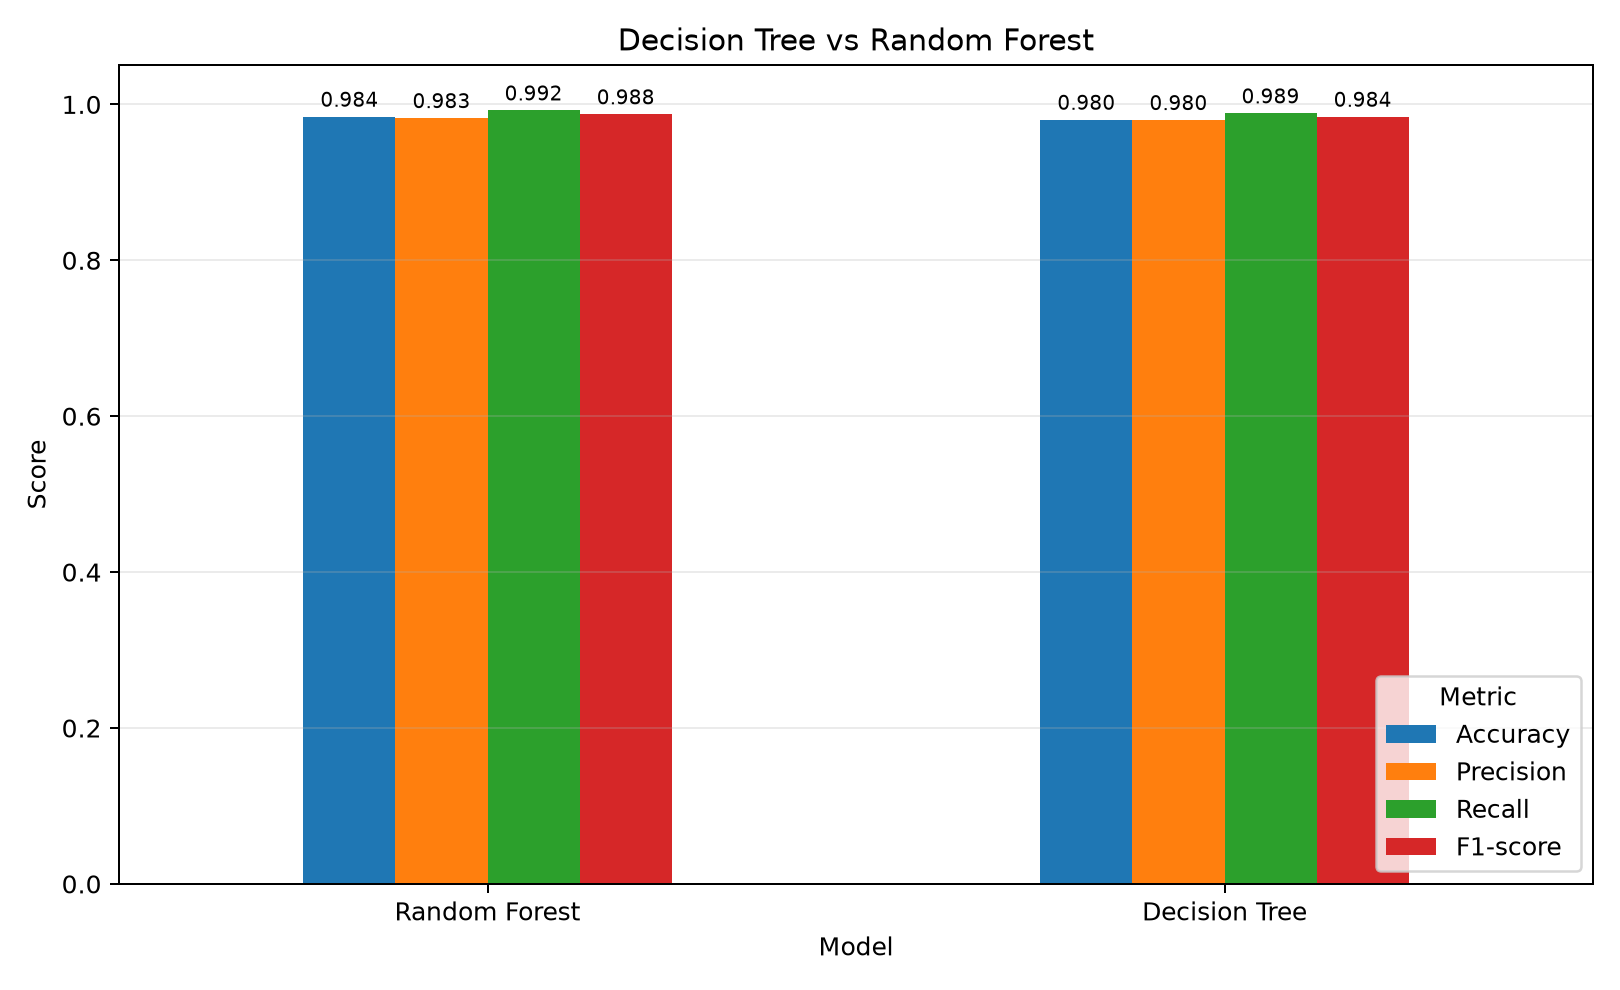
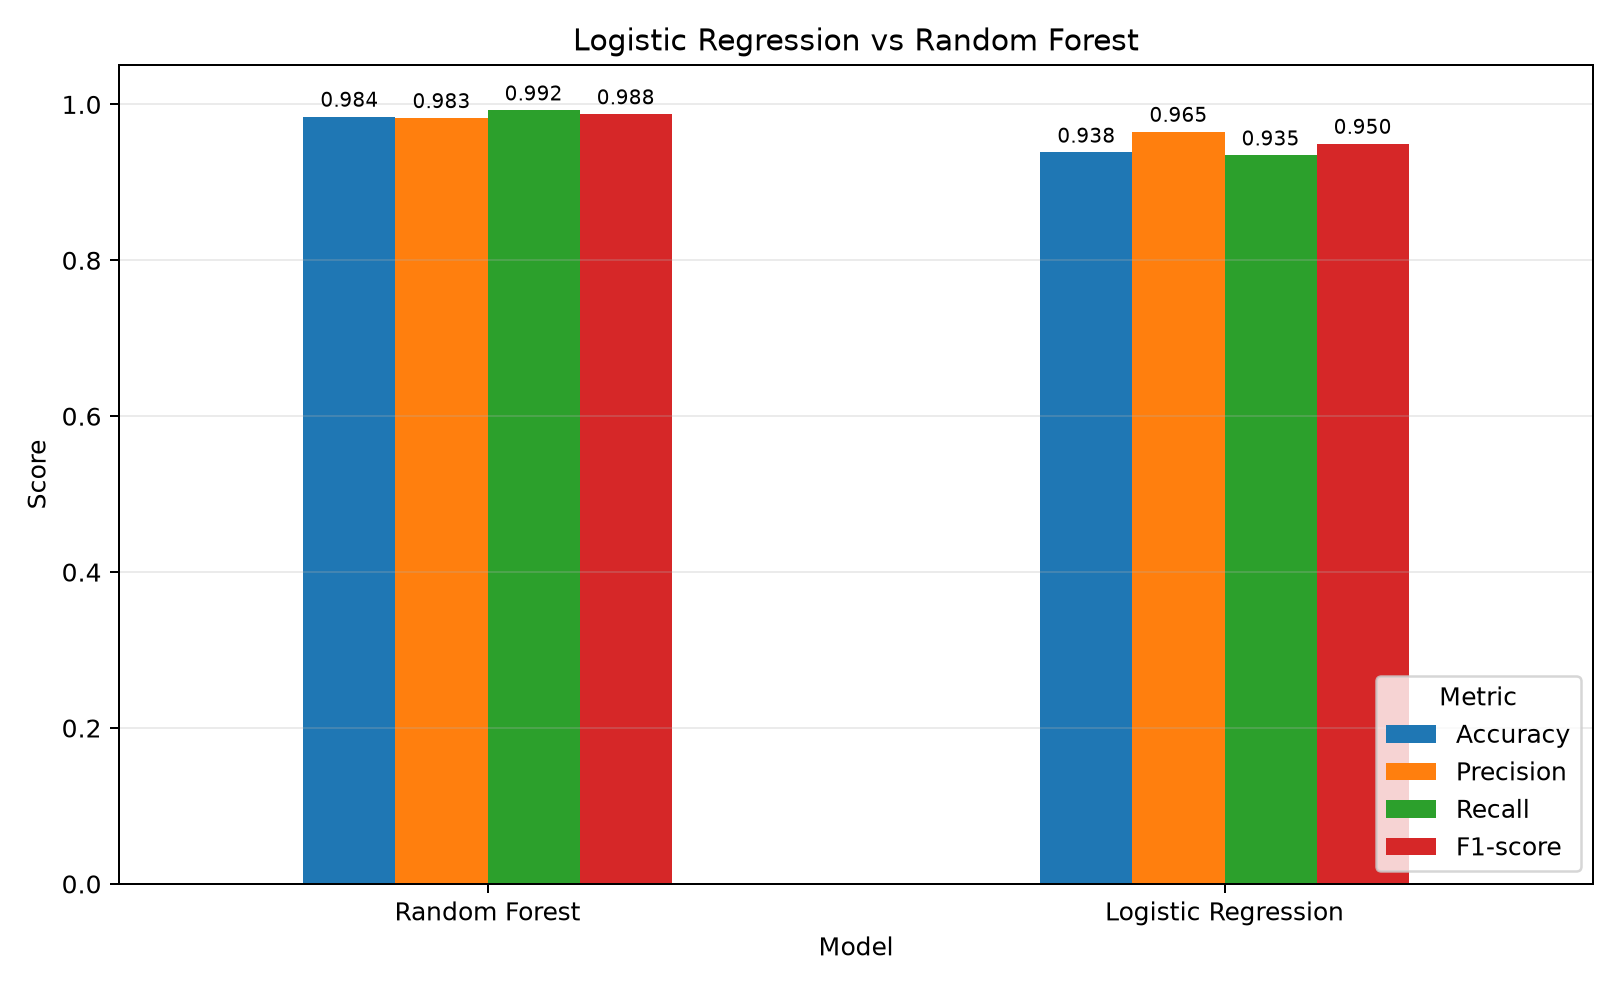
Backup model

Changed region(s): [[0.6173, 0.0909, 0.8951, 0.1818], [0.3395, 0.0303, 0.7099, 0.0606], [0.679, 0.9091, 0.8333, 0.9394]]

diff --git a/tests/test_data_pipeline.py b/tests/test_data_pipeline.py
@@ -6,7 +6,7 @@ from pathlib import Path
 
 import pandas as pd
 from sklearn.ensemble import RandomForestClassifier
-from sklearn.tree import DecisionTreeClassifier
+from sklearn.linear_model import LogisticRegression
 from streamlit.testing.v1 import AppTest
 
 PROJECT_ROOT = Path(__file__).resolve().parents[1]
@@ -91,11 +91,11 @@ class EvaluationTests(unittest.TestCase):
 
     def test_grid_search_uses_stratified_five_fold_f1(self):
         pipeline = create_model_pipeline(
-            DecisionTreeClassifier(random_state=42), scale_numeric=False
+            LogisticRegression(random_state=42, max_iter=2_000), scale_numeric=True
         )
         search = create_grid_search(
             pipeline,
-            {"classifier__max_depth": [4, 6]},
+            {"classifier__C": [0.1, 1.0]},
         )
         self.assertEqual(search.refit, "f1")
         self.assertEqual(search.cv.n_splits, 5)
@@ -110,7 +110,7 @@ class EvaluationTests(unittest.TestCase):
         X = cleaned.loc[:, FEATURE_COLUMNS]
         y = cleaned["loan_status"]
         for classifier, scale in (
-            (DecisionTreeClassifier(max_depth=3, random_state=42), False),
+            (LogisticRegression(max_iter=2_000, random_state=42), True),
             (RandomForestClassifier(n_estimators=10, random_state=42), False),
         ):
             with self.subTest(classifier=type(classifier).__name__):

diff --git a/streamlit_app.py b/streamlit_app.py
@@ -12,7 +12,7 @@ from src.settings import FEATURE_COLUMNS, MODELS_DIR
 
 
 MODEL_PATHS = {
-    "Decision Tree": MODELS_DIR / "decision_tree_model.joblib",
+    "Logistic Regression": MODELS_DIR / "logistic_regression_model.joblib",
     "Random Forest": MODELS_DIR / "random_forest_model.joblib",
 }
 COMPARISON_TABLE_PATH = MODELS_DIR / "comparison_table.csv"
@@ -82,7 +82,7 @@ st.set_page_config(
 st.title("🏦 Loan Approval Prediction")
 st.write(
     "Enter an applicant's financial and loan information to compare predictions "
-    "from Decision Tree and Random Forest."
+    "from Logistic Regression and Random Forest."
 )
 st.info(
     "Educational demonstration only. This prototype predicts patterns in the "
@@ -225,6 +225,6 @@ else:
 if COMPARISON_CHART_PATH.is_file():
     st.image(
         str(COMPARISON_CHART_PATH),
-        caption="Decision Tree and Random Forest test-set performance",
+        caption="Logistic Regression and Random Forest test-set performance",
         width="stretch",
     )

diff --git a/src/compare_models.py b/src/compare_models.py
@@ -1,4 +1,4 @@
-"""Compare the trained Decision Tree and Random Forest models."""
+"""Compare the trained Logistic Regression and Random Forest models."""
 
 import joblib
 import matplotlib.pyplot as plt
@@ -10,7 +10,7 @@ from training_utils import calculate_metrics, load_test_data
 
 def main():
     model_paths = {
-        "Decision Tree": MODELS_DIR / "decision_tree_model.joblib",
+        "Logistic Regression": MODELS_DIR / "logistic_regression_model.joblib",
         "Random Forest": MODELS_DIR / "random_forest_model.joblib",
     }
     missing = [path.name for path in model_paths.values() if not path.is_file()]
@@ -47,7 +47,7 @@ def main():
     axis = chart_data.plot(kind="bar", figsize=(9, 5.5), rot=0)
     axis.set_xlabel("Model")
     axis.set_ylabel("Score")
-    axis.set_title("Decision Tree vs Random Forest")
+    axis.set_title("Logistic Regression vs Random Forest")
     axis.set_ylim(0, 1.05)
     axis.grid(axis="y", alpha=0.25)
     axis.legend(title="Metric", loc="lower right")

diff --git a/src/train_logistic_regression.py b/src/train_logistic_regression.py
@@ -1,0 +1,30 @@
+"""Train and evaluate the Logistic Regression classifier."""
+
+from sklearn.linear_model import LogisticRegression
+
+from settings import MODELS_DIR, PROCESSED_DATA_DIR, RANDOM_STATE
+from training_utils import train_and_evaluate_model
+
+
+def main():
+    train_and_evaluate_model(
+        classifier=LogisticRegression(
+            max_iter=2_000,
+            random_state=RANDOM_STATE,
+        ),
+        classifier_parameter_grid={
+            "classifier__C": [0.01, 0.1, 1.0, 10.0, 100.0],
+            "classifier__class_weight": [None, "balanced"],
+        },
+        scale_numeric=True,
+        model_name="Logistic Regression",
+        artifact_stem="logistic_regression",
+        confusion_matrix_filename="confusion_matrix_logistic_regression.png",
+        color_map="Blues",
+        processed_dir=PROCESSED_DATA_DIR,
+        output_dir=MODELS_DIR,
+    )
+
+
+if __name__ == "__main__":
+    main()

diff --git a/README.md b/README.md
@@ -3,7 +3,7 @@
 This project predicts whether a loan application is **Approved** or **Rejected**
 using two supervised classification algorithms:
 
-- Decision Tree as an interpretable single-tree model
+- Logistic Regression as the regularized linear baseline
 - Random Forest as the primary nonlinear model
 
 Both models use the same validated data split and leakage-safe scikit-learn
@@ -14,6 +14,23 @@ untouched test set.
 > **Educational use only:** the target records approval decisions, not borrower
 > default or repayment. This prototype must not be used for real lending
 > decisions.
+
+## 🔶 Logistic Regression Branch — Required Changes
+
+> **Highlighted replacement:** the first model is now **Logistic Regression**.
+> Replace every Decision Tree training command, model-artifact name, model label,
+> and visualization label with the Logistic Regression equivalent below.
+
+| Replace | With |
+|---|---|
+| `src/train_decision_tree.py` | `src/train_logistic_regression.py` |
+| `DecisionTreeClassifier` | `LogisticRegression(max_iter=2000, random_state=42)` |
+| `decision_tree_*` artifacts | `logistic_regression_*` artifacts |
+| Unscaled numeric features | Standardized numeric features (`StandardScaler`) |
+
+The Logistic Regression parameter search evaluates `C` and `class_weight` with
+five-fold stratified cross-validation. Numeric scaling is required because this
+model is sensitive to feature magnitudes.
 
 ## Project Structure
 
@@ -27,7 +44,7 @@ loan-approval-prediction/
 |-- streamlit_app.py
 |-- src/
 |   |-- prepare_data.py
-|   |-- train_decision_tree.py
+|   |-- train_logistic_regression.py
 |   |-- train_random_forest.py
 |   |-- compare_models.py
 |   |-- settings.py
@@ -67,7 +84,7 @@ Run the following commands from the project root:
 
 ```bash
 python src/prepare_data.py
-python src/train_decision_tree.py
+python src/train_logistic_regression.py
 python src/train_random_forest.py
 python src/compare_models.py
 python -m streamlit run streamlit_app.py
@@ -97,8 +114,10 @@ model-comparison results.
 Preprocessing is fitted inside every model pipeline and every cross-validation
 fold:
 
-- Decision Tree and Random Forest pass numeric features through unchanged and
-  one-hot encode `education` and `self_employed`.
+- Logistic Regression standardizes numeric features and one-hot encodes
+  `education` and `self_employed`.
+- Random Forest passes numeric features through unchanged and one-hot encodes
+  `education` and `self_employed`.
 
 GridSearchCV uses five-fold `StratifiedKFold` validation. It records accuracy,
 Approved-class precision, recall, and F1-score. F1-score is the selection metric
@@ -112,31 +131,31 @@ Final performance on the untouched 1,281-row test set:
 | Model | Accuracy | Precision | Recall | F1-score |
 |---|---:|---:|---:|---:|
 | Random Forest | 98.44% | 98.26% | 99.25% | 98.75% |
-| Decision Tree | 98.05% | 98.01% | 98.87% | 98.44% |
+| Logistic Regression | 93.83% | 96.50% | 93.48% | 94.96% |
 
 Random Forest produced 20 incorrect predictions: 14 rejected applications were
 predicted Approved and 6 approved applications were predicted Rejected.
-Decision Tree produced 25 incorrect predictions: 16 rejected applications were
-predicted Approved and 9 approved applications were predicted Rejected.
+Logistic Regression produced 79 incorrect predictions: 27 rejected applications
+were predicted Approved and 52 approved applications were predicted Rejected.
 
-The selected Decision Tree used unrestricted depth, a minimum leaf size of five,
-and no class weighting. The selected Random Forest used unrestricted depth, a
-minimum leaf size of one, and no class weighting.
+The selected Logistic Regression used `C=0.1`, balanced class weights, and a
+maximum of 2,000 solver iterations. The selected Random Forest used unrestricted
+depth, a minimum leaf size of one, and no class weighting.
 
 The training and comparison scripts create:
 
-- `models/decision_tree_model.joblib`
+- `models/logistic_regression_model.joblib`
 - `models/random_forest_model.joblib`
-- `models/decision_tree_grid_search.csv`
+- `models/logistic_regression_grid_search.csv`
 - `models/random_forest_grid_search.csv`
-- `models/decision_tree_training_summary.json`
+- `models/logistic_regression_training_summary.json`
 - `models/random_forest_training_summary.json`
-- `models/confusion_matrix_decision_tree.png`
+- `models/confusion_matrix_logistic_regression.png`
 - `models/confusion_matrix_random_forest.png`
 - `models/comparison_table.csv`
 - `models/comparison_chart.png`
 
-The high performance of the tree-based model must be interpreted cautiously.
+The high performance of the Random Forest model must be interpreted cautiously.
 `cibil_score` is strongly associated with the target, and results from this
 single educational dataset should not be generalized to real applicants.
 
